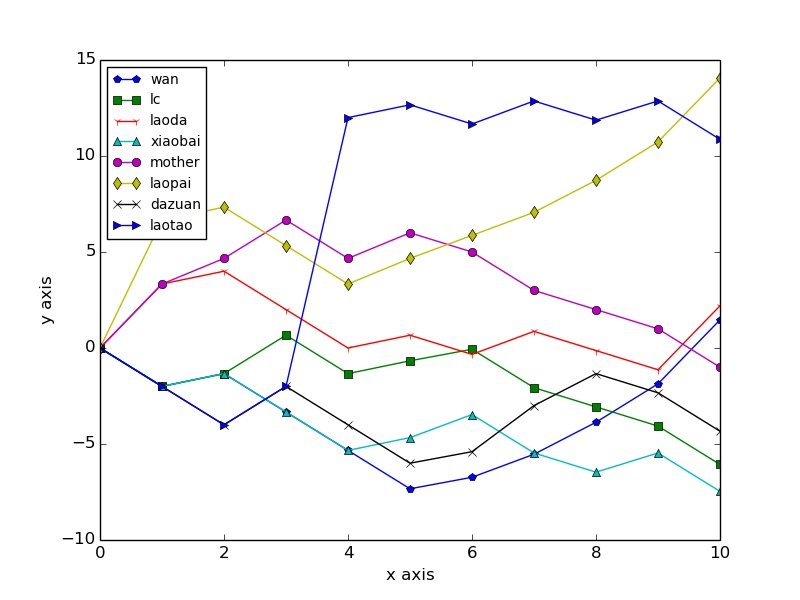
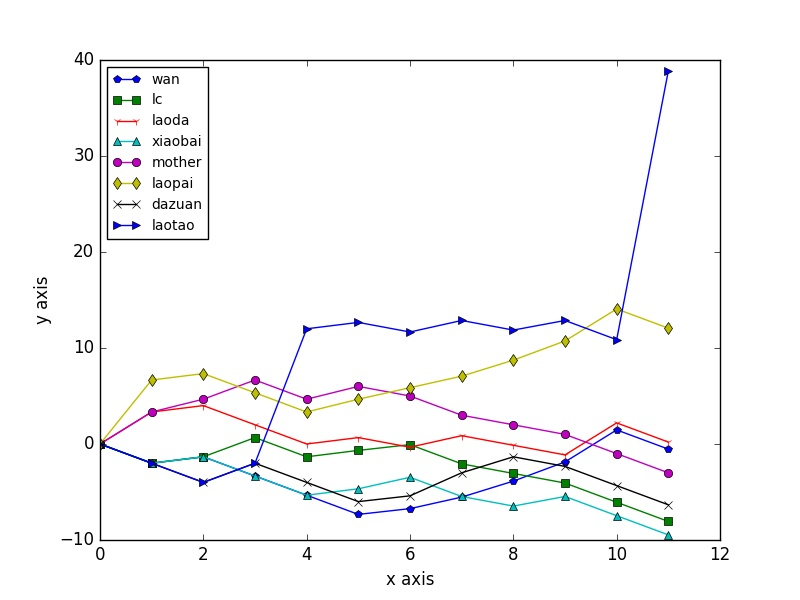
update

diff --git a/README.md b/README.md
@@ -1,23 +1,43 @@
 # E cup guess competition report
 ## real-time ranking
-2016-06-14 16:15:43
+2016-06-15 01:52:45
 
 |rank|name|score|
 |:---:|:---:|:---:|
-|1|laopai|14.07|
-|2|laotao|10.87|
-|3|laoda|2.20|
-|4|wan|1.47|
-|5|mother|-1.00|
-|6|dazuan|-4.33|
-|7|lc|-6.07|
-|8|xiaobai|-7.47|
+|1|laotao|38.87|
+|2|laopai|12.07|
+|3|laoda|0.20|
+|4|wan|-0.53|
+|5|mother|-3.00|
+|6|dazuan|-6.33|
+|7|lc|-8.07|
+|8|xiaobai|-9.47|
 
 ## Pond
-609.27
+595.27
 
 ## History
 ![image](https://github.com/Anserw/E_Cup/blob/master/plot.jpg)
+### 2016061500 Austria 0 : 2 Hungary
+- handicap: -0.5 / -1
+- scorer: laotao
+- owners:
+ - Austria: laopai
+ - Hungary: laotao
+
+
+|name|guess|score change|
+|:---:|:---:|:---:|
+|wan|Austria|-2.00|
+|lc|Austria|-2.00|
+|laoda|Austria|-2.00|
+|xiaobai|Austria|-2.00|
+|mother|Austria|-2.00|
+|laopai|Austria|-2.00|
+|dazuan|Austria|-2.00|
+|laotao|Hungary|28.00|
+|Pond|..|-14.00|
+
 ### 2016061403 Belgium 0 : 2 Italy
 - handicap: -0.5 / 0
 - scorer: laotao
